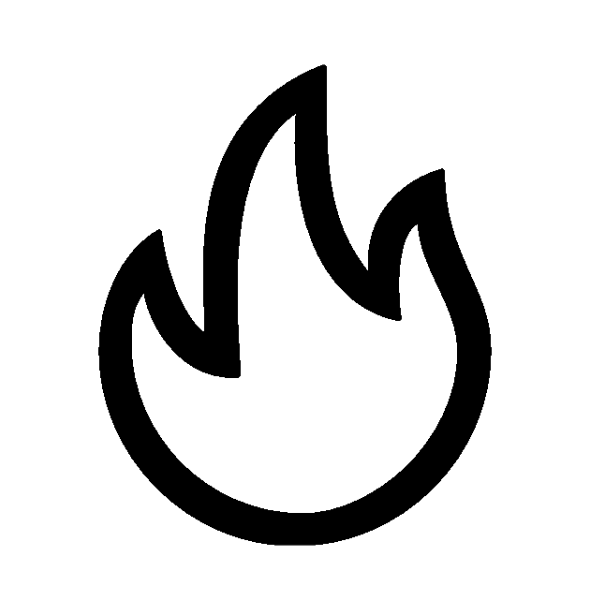
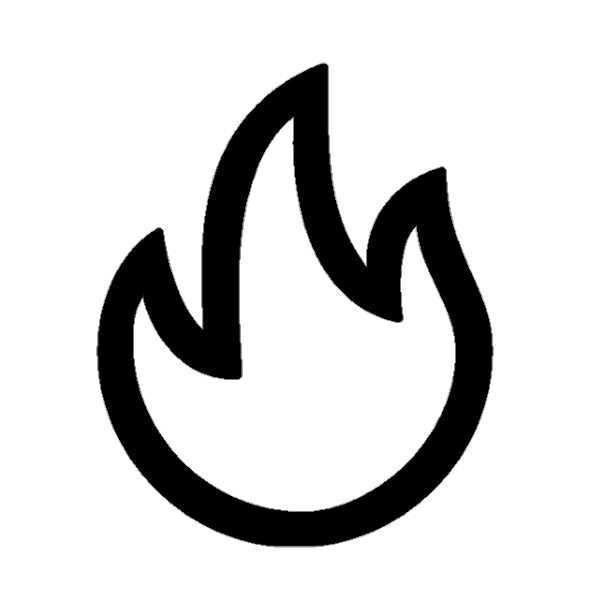
Thicken thin spell templates and require tracing the whole shape
- Widen life, dark, bolt, fire and time spell sprites to ~34 px strokes.
- Precompute each spell's centerline (Zhang-Suen thinning, corner spurs
  pruned) at scene load; a spell now counts as 0 % unless at least
  minLengthCoverage (default 90 %) of the centerline was traced.

diff --git a/Assets/Script/DrawLayerScript.cs b/Assets/Script/DrawLayerScript.cs
@@ -28,6 +28,9 @@ public class SpellDrawScript : MonoBehaviour,
     [Header("Vyhodnocení")]
     public TextMeshProUGUI resultText;
     public GameManager gameManager;
+    [Tooltip("Jaký podíl délky tvaru (středové čáry předlohy) musí hráč obtáhnout, jinak je kouzlo nedokončené (0 %).")]
+    [Range(0f, 1f)]
+    public float minLengthCoverage = 0.9f;
 
     private const float InterpolationStep = 2.4f;
     private static readonly Color32 BackgroundBlack = new Color32(0, 0, 0, 255);
@@ -62,6 +65,8 @@ public class SpellDrawScript : MonoBehaviour,
         public bool[] isBlack;
         public int[] blackIndices;
         public int blackCount => blackIndices.Length;
+        // Středová čára (1 px) předlohy = "délka" tvaru. Podle ní se pozná, jestli hráč tvar dokreslil.
+        public int[] skeletonIndices;
     }
 
     readonly Dictionary<string, int> spellMove = new Dictionary<string, int> {
@@ -111,6 +116,11 @@ public class SpellDrawScript : MonoBehaviour,
             brushSize = Mathf.Max(1, Mathf.RoundToInt(texW * 0.04f));
         }
         EnsureBrush();
+
+        // Masky a středové čáry všech kouzel spočítat hned při načtení scény,
+        // ať se během hraní nic nepočítá.
+        foreach (var name in spellMove.Keys)
+            GetMask(name);
     }
 
     void OnDestroy()
@@ -182,9 +192,109 @@ public class SpellDrawScript : MonoBehaviour,
             }
         }
 
-        var mask = new ReferenceMask { isBlack = isBlack, blackIndices = blackIndices.ToArray() };
+        var blackArr = blackIndices.ToArray();
+        var mask = new ReferenceMask
+        {
+            isBlack = isBlack,
+            blackIndices = blackArr,
+            skeletonIndices = Skeletonize(isBlack, texW, texH, blackArr, brushRadiusCached * 2)
+        };
         maskCache[name] = mask;
         return mask;
+    }
+
+    /// <summary>
+    /// Ztenčí masku na středovou čáru širokou 1 px (Zhang-Suen thinning).
+    /// Potom zkrátí všechny volné konce o pruneLength px: thinning dělá výběžky do ostrých
+    /// rohů (cípy hvězdy, rohy blesku), kam hráč prstem nedojede. Uzavřené tvary se nezkrátí,
+    /// otevřené čáry jen na koncích, které štětec stejně pokryje.
+    /// </summary>
+    private static int[] Skeletonize(bool[] src, int w, int h, int[] blackIndices, int pruneLength)
+    {
+        var img = (bool[])src.Clone();
+        var candidates = new List<int>(blackIndices.Length);
+        foreach (int i in blackIndices)
+        {
+            int x = i % w, y = i / w;
+            if (x > 0 && y > 0 && x < w - 1 && y < h - 1) candidates.Add(i);
+        }
+
+        var toRemove = new List<int>();
+        bool changed = true;
+        while (changed)
+        {
+            changed = false;
+            for (int pass = 0; pass < 2; pass++)
+            {
+                toRemove.Clear();
+                foreach (int i in candidates)
+                {
+                    if (!img[i]) continue;
+
+                    bool p2 = img[i + w], p3 = img[i + w + 1], p4 = img[i + 1], p5 = img[i - w + 1];
+                    bool p6 = img[i - w], p7 = img[i - w - 1], p8 = img[i - 1], p9 = img[i + w - 1];
+
+                    int b = (p2 ? 1 : 0) + (p3 ? 1 : 0) + (p4 ? 1 : 0) + (p5 ? 1 : 0)
+                          + (p6 ? 1 : 0) + (p7 ? 1 : 0) + (p8 ? 1 : 0) + (p9 ? 1 : 0);
+                    if (b < 2 || b > 6) continue;
+
+                    int a = (!p2 && p3 ? 1 : 0) + (!p3 && p4 ? 1 : 0) + (!p4 && p5 ? 1 : 0) + (!p5 && p6 ? 1 : 0)
+                          + (!p6 && p7 ? 1 : 0) + (!p7 && p8 ? 1 : 0) + (!p8 && p9 ? 1 : 0) + (!p9 && p2 ? 1 : 0);
+                    if (a != 1) continue;
+
+                    if (pass == 0)
+                    {
+                        if (p2 && p4 && p6) continue;
+                        if (p4 && p6 && p8) continue;
+                    }
+                    else
+                    {
+                        if (p2 && p4 && p8) continue;
+                        if (p2 && p6 && p8) continue;
+                    }
+                    toRemove.Add(i);
+                }
+
+                if (toRemove.Count > 0)
+                {
+                    foreach (int i in toRemove) img[i] = false;
+                    changed = true;
+                }
+            }
+            if (changed) candidates.RemoveAll(i => !img[i]);
+        }
+
+        // Pixely na okraji textury se neztenčovaly; vezmou se všechny, co zůstaly.
+        var skeleton = new List<int>();
+        foreach (int i in blackIndices)
+            if (img[i]) skeleton.Add(i);
+
+        // Zkracování volných konců. Konec = pixel s nejvýš jedním sousedem, nebo se dvěma sousedy,
+        // kteří spolu sousedí (schodovitý konec čáry).
+        var ends = new List<int>();
+        int[] ring = { w, w + 1, 1, -w + 1, -w, -w - 1, -1, w - 1 };
+        for (int step = 0; step < pruneLength; step++)
+        {
+            ends.Clear();
+            foreach (int i in skeleton)
+            {
+                int x = i % w, y = i / w;
+                if (x == 0 || y == 0 || x == w - 1 || y == h - 1) continue;
+                int n = 0, first = -1, second = -1;
+                for (int k = 0; k < 8; k++)
+                {
+                    if (!img[i + ring[k]]) continue;
+                    if (n == 0) first = k; else if (n == 1) second = k;
+                    n++;
+                }
+                bool isEnd = n <= 1 || (n == 2 && (second - first == 1 || (first == 0 && second == 7)));
+                if (isEnd) ends.Add(i);
+            }
+            if (ends.Count == 0) break;
+            foreach (int i in ends) img[i] = false;
+            skeleton.RemoveAll(i => !img[i]);
+        }
+        return skeleton.ToArray();
     }
 
     void FillBackgroundWithReference()
@@ -220,11 +330,16 @@ public class SpellDrawScript : MonoBehaviour,
         {
             if (canDraw)
             {
-                float correctness = EvaluateCorrectness();
+                float lengthCoverage = EvaluateLengthCoverage();
+                bool finished = lengthCoverage >= minLengthCoverage;
+                // Nedokončený tvar = 0 % (lektvar se zkazí), i kdyby byla obtažená část přesná.
+                float correctness = finished ? EvaluateCorrectness() : 0f;
                 gameManager.SetPecentSpell(correctness * 100f);
 
                 if (resultText != null)
-                    resultText.text = $"Přesnost: {(correctness * 100f):0}%";
+                    resultText.text = finished
+                        ? $"Přesnost: {(correctness * 100f):0}%"
+                        : $"Nedokončeno: {(lengthCoverage * 100f):0}% tvaru";
                 canDraw = false;
                 movesToSpell = 0;
                 ClearTexture();
@@ -324,6 +439,50 @@ public class SpellDrawScript : MonoBehaviour,
         }
 
         if (changed) textureDirty = true;
+    }
+
+    /// <summary>
+    /// Podíl středové čáry předlohy, přes který hráč přetáhl (0..1).
+    /// Bod se počítá jako obtažený, když je nakreslený pixel do vzdálenosti poloměru štětce
+    /// (aby hráč nemusel dojet až do samé špičky ostrých cípů).
+    /// </summary>
+    float EvaluateLengthCoverage()
+    {
+        if (currentMask == null || currentMask.skeletonIndices.Length == 0) return 1f;
+
+        EnsureCoverageOffsets();
+        int covered = 0;
+        foreach (int i in currentMask.skeletonIndices)
+        {
+            int cx = i % texW, cy = i / texW;
+            for (int k = 0; k < coverageOffsets.Length; k++)
+            {
+                Vector2Int o = coverageOffsets[k];
+                int x = cx + o.x, y = cy + o.y;
+                if (x < 0 || y < 0 || x >= texW || y >= texH) continue;
+                if (drawn[y * texW + x]) { covered++; break; }
+            }
+        }
+        return (float)covered / currentMask.skeletonIndices.Length;
+    }
+
+    // Vzorky kruhu o poloměru štětce s krokem 3 px, seřazené od středu (rychlý nález zásahu).
+    private Vector2Int[] coverageOffsets;
+    private int coverageOffsetsRadius = -1;
+
+    private void EnsureCoverageOffsets()
+    {
+        int rad = brushRadiusCached;
+        if (coverageOffsets != null && coverageOffsetsRadius == rad) return;
+
+        const int Step = 3;
+        var list = new List<Vector2Int>();
+        for (int dy = -rad; dy <= rad; dy += Step)
+            for (int dx = -rad; dx <= rad; dx += Step)
+                if (dx * dx + dy * dy <= rad * rad) list.Add(new Vector2Int(dx, dy));
+        list.Sort((a, b) => a.sqrMagnitude.CompareTo(b.sqrMagnitude));
+        coverageOffsets = list.ToArray();
+        coverageOffsetsRadius = rad;
     }
 
     /// <summary>
